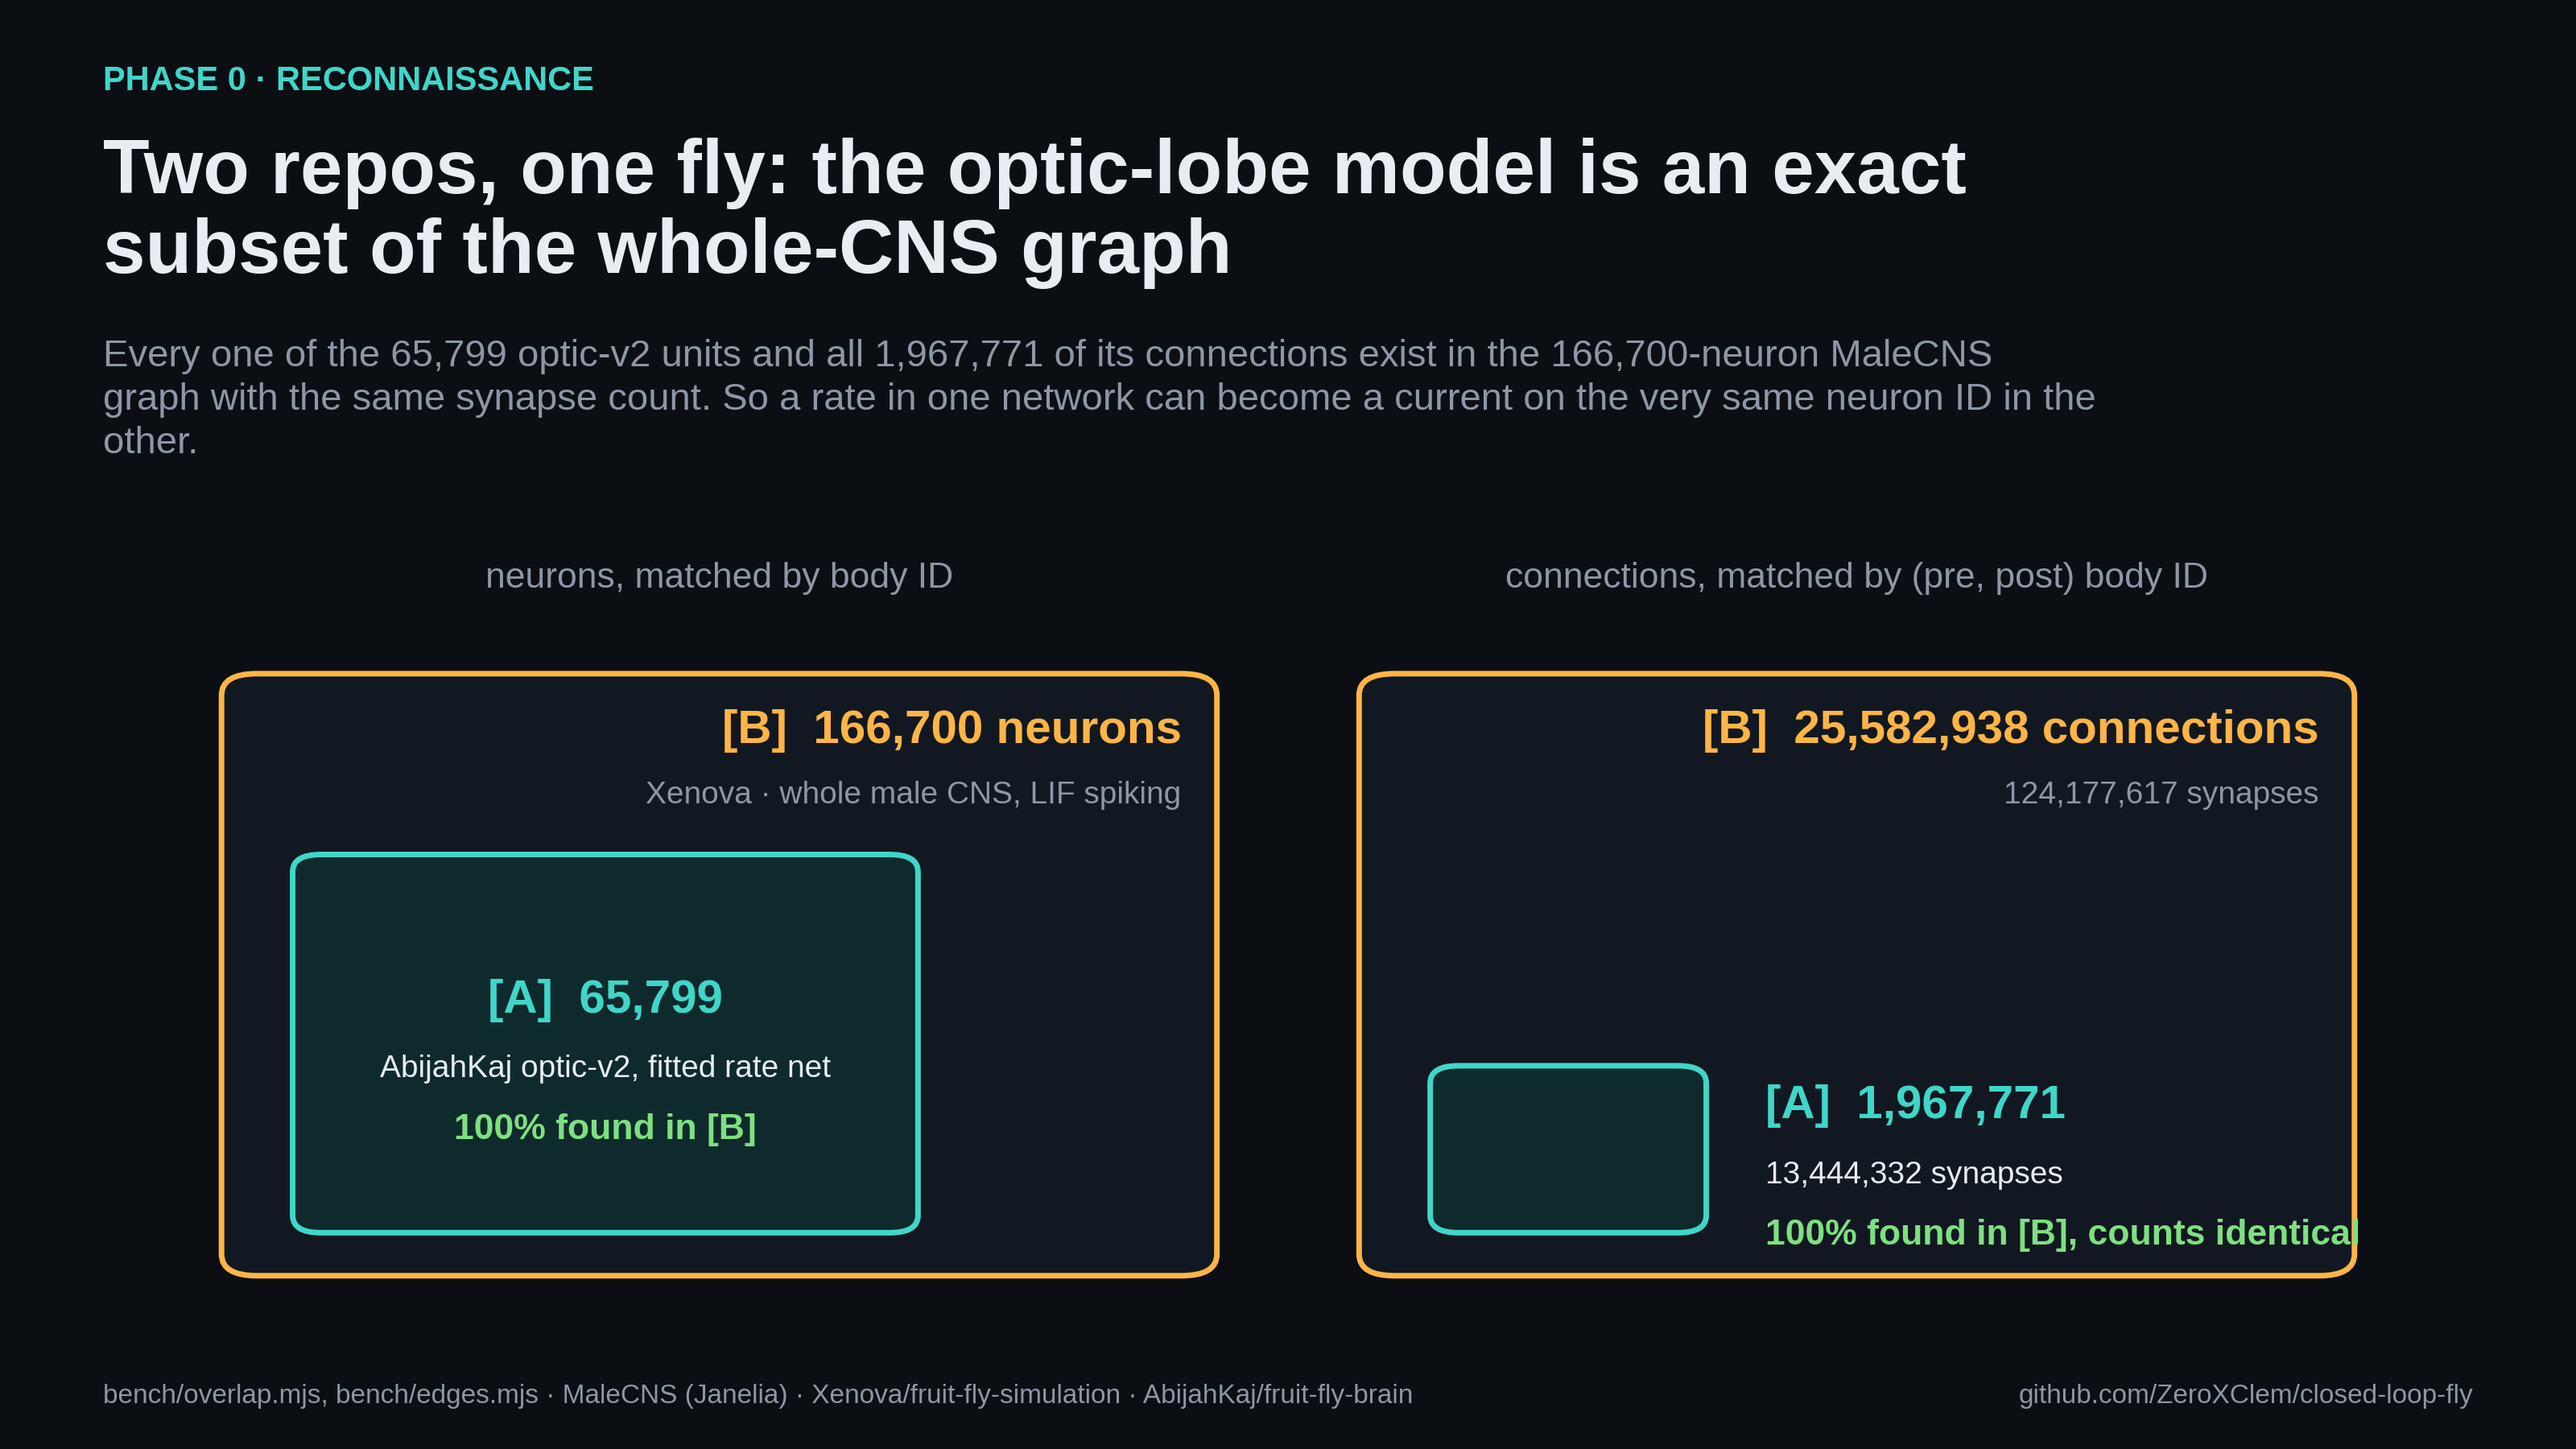
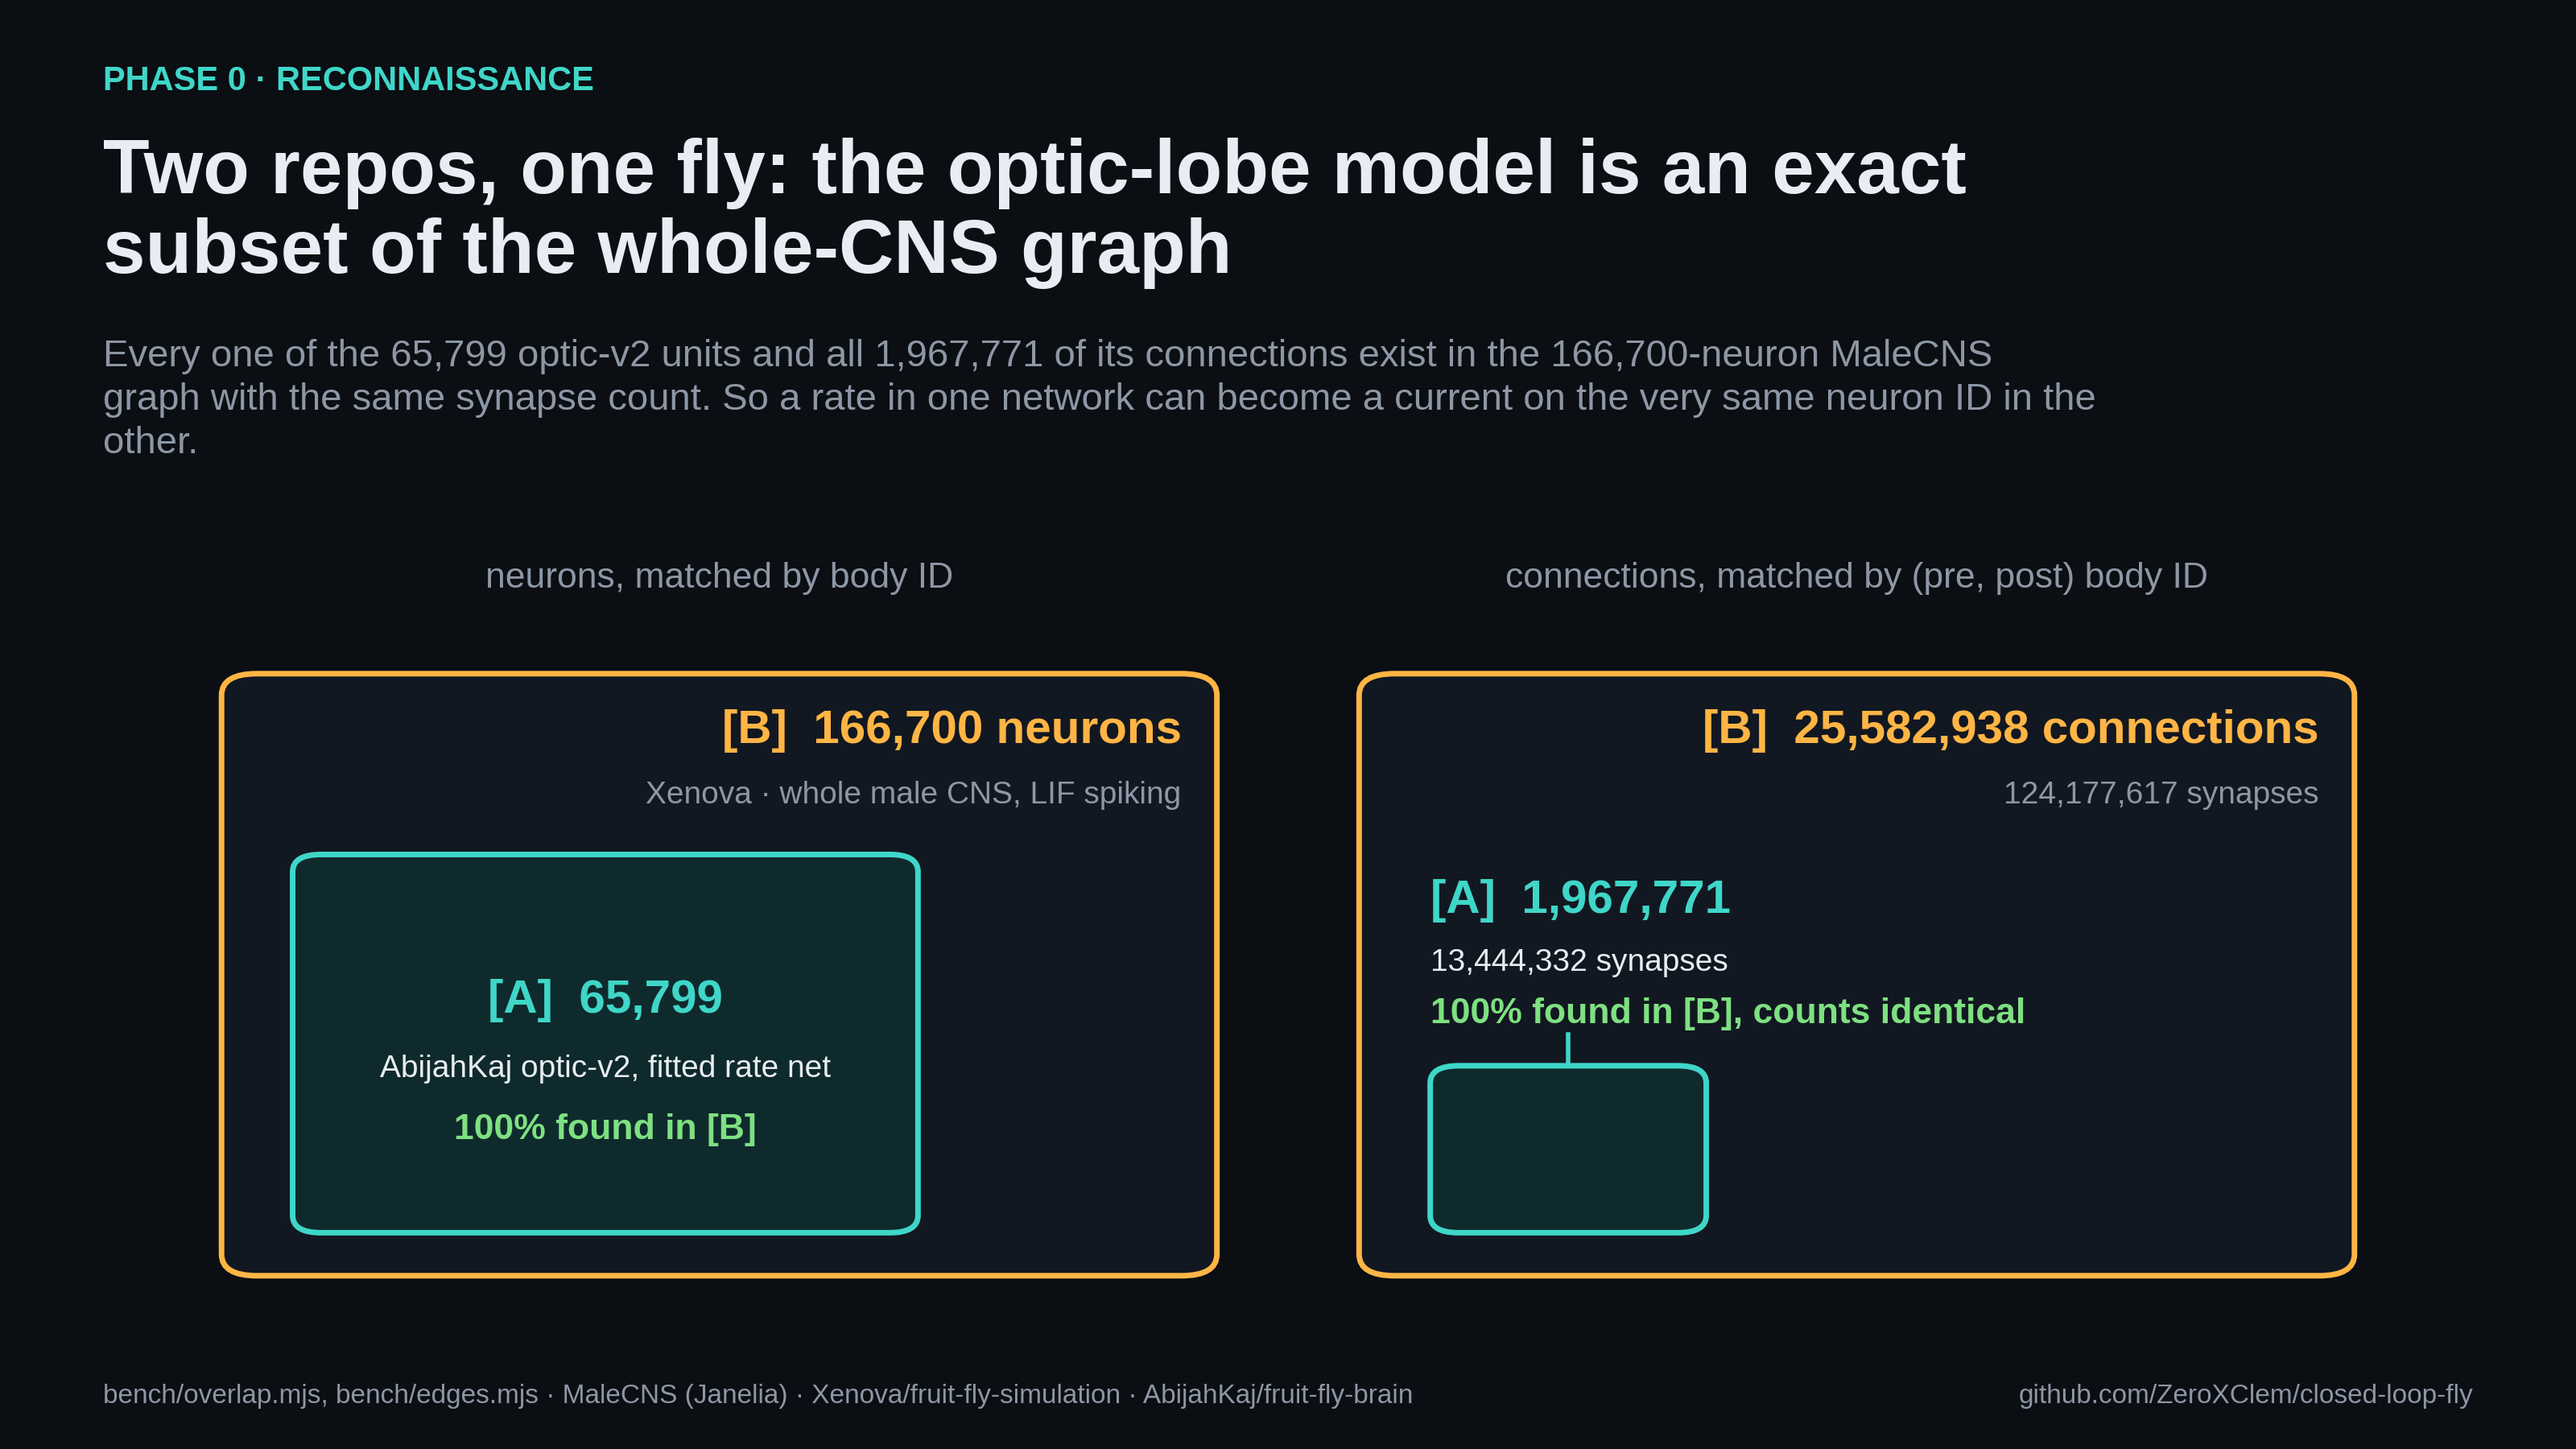
figures: label the small connections square from above, inside the outer box
Claude-Session: https://claude.ai/code/session_01Xuh7MvrT6H8pCesLxmq4MB

Changed region(s): [[0.5625, 0.5911, 0.7812, 0.7156], [0.6875, 0.8089, 0.9062, 0.8711], [0.6875, 0.7467, 0.8125, 0.7778]]

diff --git a/docs/figures/make.py b/docs/figures/make.py
@@ -88,11 +88,12 @@ def same_fly():
             txt(ax, cx, cy + 3, f'[A]  {small:,}', A, 21, ha='center', va='center', weight='bold')
             txt(ax, cx, cy - 1.8, small_lab, INK, 14, ha='center', va='center')
             txt(ax, cx, cy - 6, '100% found in [B]', GOOD, 16, ha='center', va='center', weight='bold')
-        else:
-            lx = x0 + 3 + s_small + 2.5
-            txt(ax, lx, cy + 3, f'[A]  {small:,}', A, 21, ha='left', va='center', weight='bold')
-            txt(ax, lx, cy - 1.8, small_lab, INK, 14, ha='left', va='center')
-            txt(ax, lx, cy - 6, '100% found in [B], counts identical', GOOD, 16, ha='left', va='center', weight='bold')
+        else:  # too small to hold text: label it from directly above, inside the big box, with a leader
+            lx, ty = x0 + 3, 7 + s_small
+            ax.plot([lx + s_small / 2, lx + s_small / 2], [ty, ty + 2.2], color=A, lw=2)
+            txt(ax, lx, ty + 11.5, f'[A]  {small:,}', A, 21, ha='left', va='center', weight='bold')
+            txt(ax, lx, ty + 7.2, small_lab, INK, 14, ha='left', va='center')
+            txt(ax, lx, ty + 3.6, '100% found in [B], counts identical', GOOD, 16, ha='left', va='center', weight='bold')
     nest(5, nB, nA, 'Xenova · whole male CNS, LIF spiking', 'AbijahKaj optic-v2, fitted rate net', 'neurons')
     nest(53, eB, eA, '124,177,617 synapses', f'{ed["sumA"]:,} synapses', 'connections')
     txt(ax, 26, 52, 'neurons, matched by body ID', MUTED, 16, ha='center')
